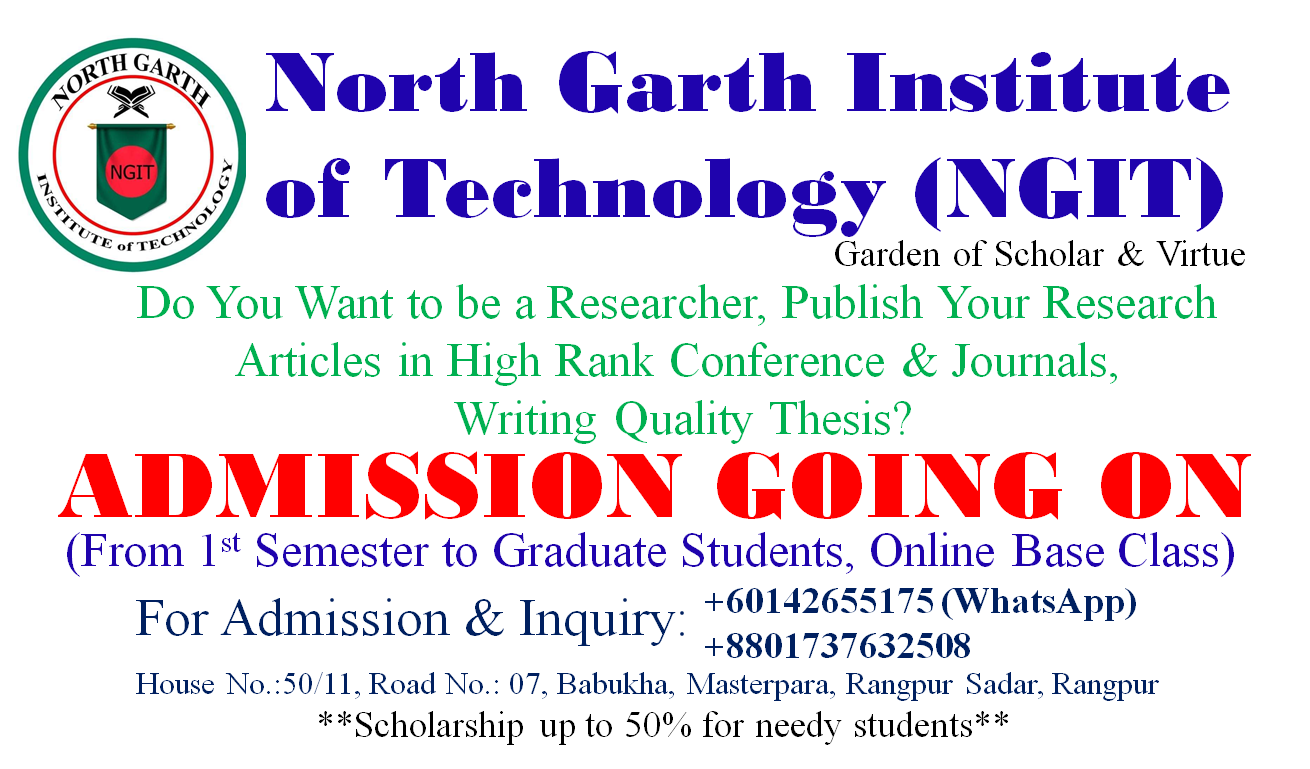
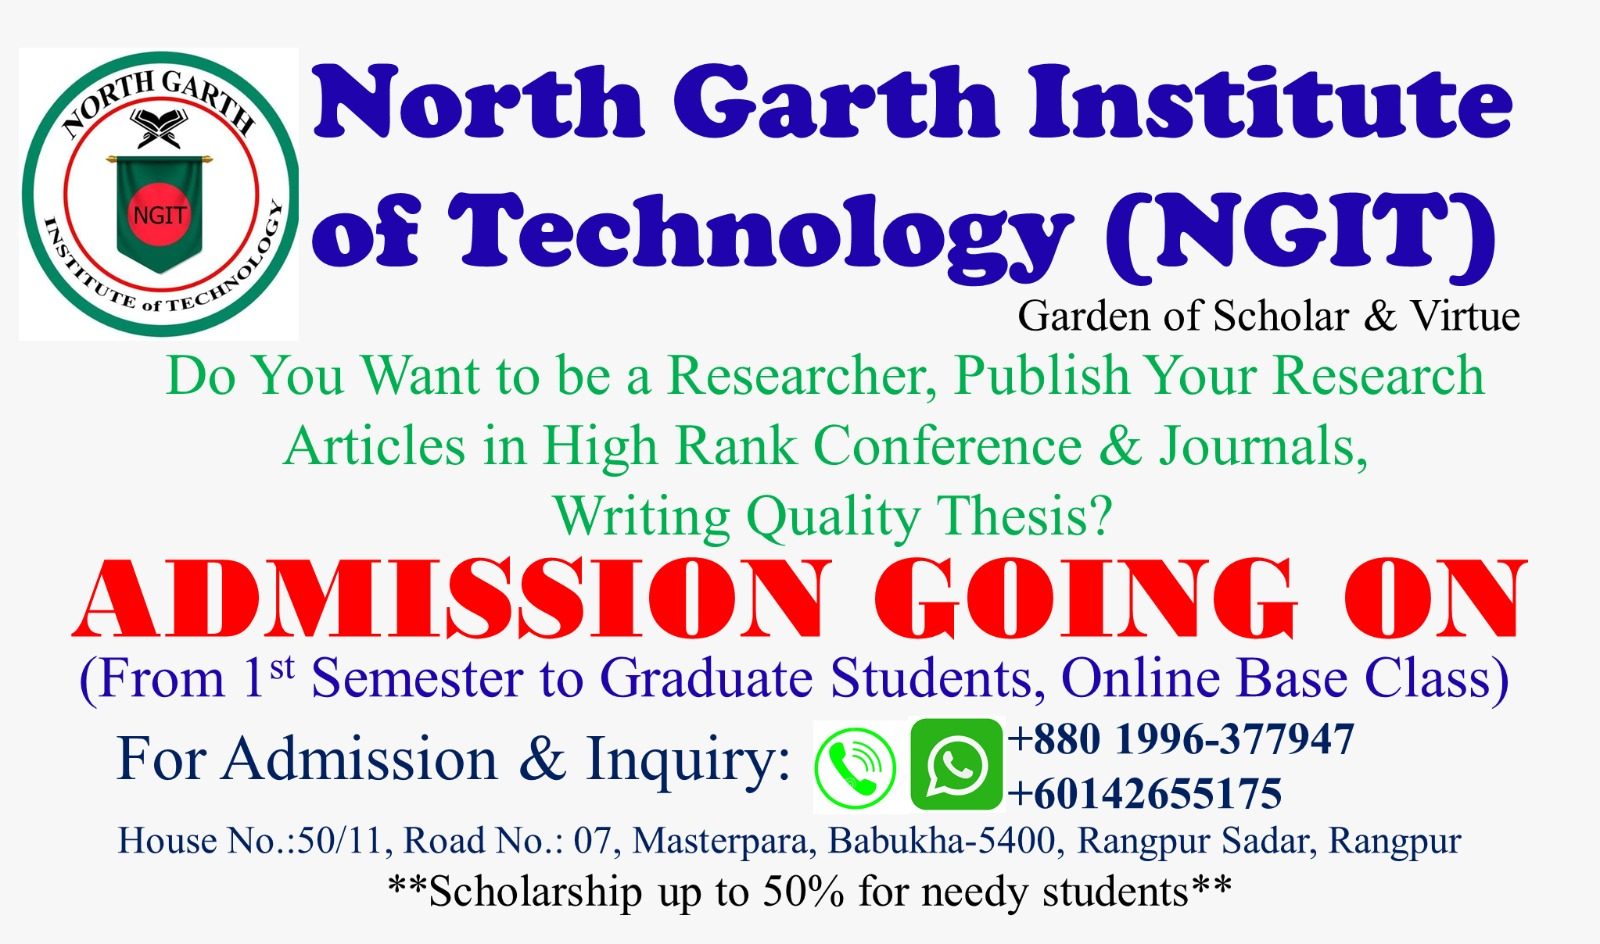
contact info updated

Changed region(s): [[0.0, 0.0312, 0.9466, 0.9675]]

diff --git a/src/app/about/components/FounderChairman.tsx b/src/app/about/components/FounderChairman.tsx
@@ -34,17 +34,22 @@ const FounderChairman = () => {
           <p className="text-justify mt-4">
             Currently, he is a PhD student at the Center for Cyber Security,
             Faculty of Information Science and Technology, Universiti Kebangsaan
-            Malaysia under the Ministry of Higher Education Malaysia Fundamental
-            Research Grand on Cyber Security. During his PhD period, he also got
-            a Malaysian International Scholarship (MIS). He has published more
-            than 28 indexed papers in ranked journals and conference
-            proceedings. His research interests include Electric Vehicles,
-            Energy Storage and Management Systems, Smart Grid and Cyber Security
-            Systems, Artificial Intelligence, Smart Vehicular Networks, Smart
-            Grids, and Industrial IoT. He is a reviewer in the Journal of
-            Network and Computer Applications, Journal of Energy Storage,
-            Applied Energy, SoftwareX, Energy Reports, IET wireless sensor
-            systems, and so many others.
+            Malaysia under the{" "}
+            <span className="font-semibold">
+              Ministry of Higher Education Malaysia Fundamental Research Grand
+            </span>{" "}
+            on Cyber Security. During his PhD period, he also got a{" "}
+            <span className="font-semibold">
+              Malaysian International Scholarship (MIS)
+            </span>
+            . He has published more than 28 indexed papers in ranked journals
+            and conference proceedings. His research interests include Electric
+            Vehicles, Energy Storage and Management Systems, Smart Grid and
+            Cyber Security Systems, Artificial Intelligence, Smart Vehicular
+            Networks, Smart Grids, and Industrial IoT. He is a reviewer in the
+            Journal of Network and Computer Applications, Journal of Energy
+            Storage, Applied Energy, SoftwareX, Energy Reports, IET wireless
+            sensor systems, and so many others.
           </p>
           <div className="lg:mt-8 md:mt-7 mt-6">
             <h2 className="text-xl font-semibold md:text-start text-center">

diff --git a/src/components/ui/Marquee.tsx b/src/components/ui/Marquee.tsx
@@ -1,14 +1,11 @@
 const Marquee = () => {
   return (
     <div className="overflow-hidden  text-white  sticky bottom-0 z-50 w-full pt-1 pb-2 bg-slate-100 lg:bg-opacity-40 md:bg-opacity-40 bg-opacity-50">
-      <div className="flex  justify-between items-stretch gap-5  animate-marquee lg:text-2xl md:text-2xl text-xl font-bold text-black text-shadow-lg text-center ">
+      <div className="flex  justify-between items-stretch gap-2  animate-marquee lg:text-2xl md:text-2xl text-xl font-bold text-black text-shadow-lg text-center ">
         <span className="text-red-600 mr-2">Admission going on.</span>
         <span>
-          Phone:
-          <span className="text-blue-600"> +8801996377947 </span>
-        </span>
-        <span>
-          Whatsapp: <span className="text-blue-600"> +60142655175</span>
+          Phone / Whatsapp:
+          <span className="text-blue-600"> +8801996377947 / +60142655175 </span>
         </span>
         <span>
           Email: <span className="text-blue-600">ngit.info@gmail.com</span>

diff --git a/src/app/contact/components/ContactInfo.tsx b/src/app/contact/components/ContactInfo.tsx
@@ -9,13 +9,11 @@ const ContactInfo = () => {
         </div>
         <div>
           <h5 className="text-xl font-semibold">
-            <strong> Phone: </strong>
-            <span className="text-blue-500 ml-2 ">+8801737632508</span>
+            <strong> Phone/Whatsapp: </strong>
           </h5>
-          <h5 className="lg:mt-3 md:mt-2 mt-1 text-xl font-semibold">
-            <strong> Whatsapp: </strong>
-            <span className="text-blue-500 ml-2 ">+60142655175</span>
-          </h5>
+          <p className="text-blue-500 mt-3 text-lg font-semibold">
+            +8801996377947 <br /> +60142655175
+          </p>
         </div>
       </div>
 
